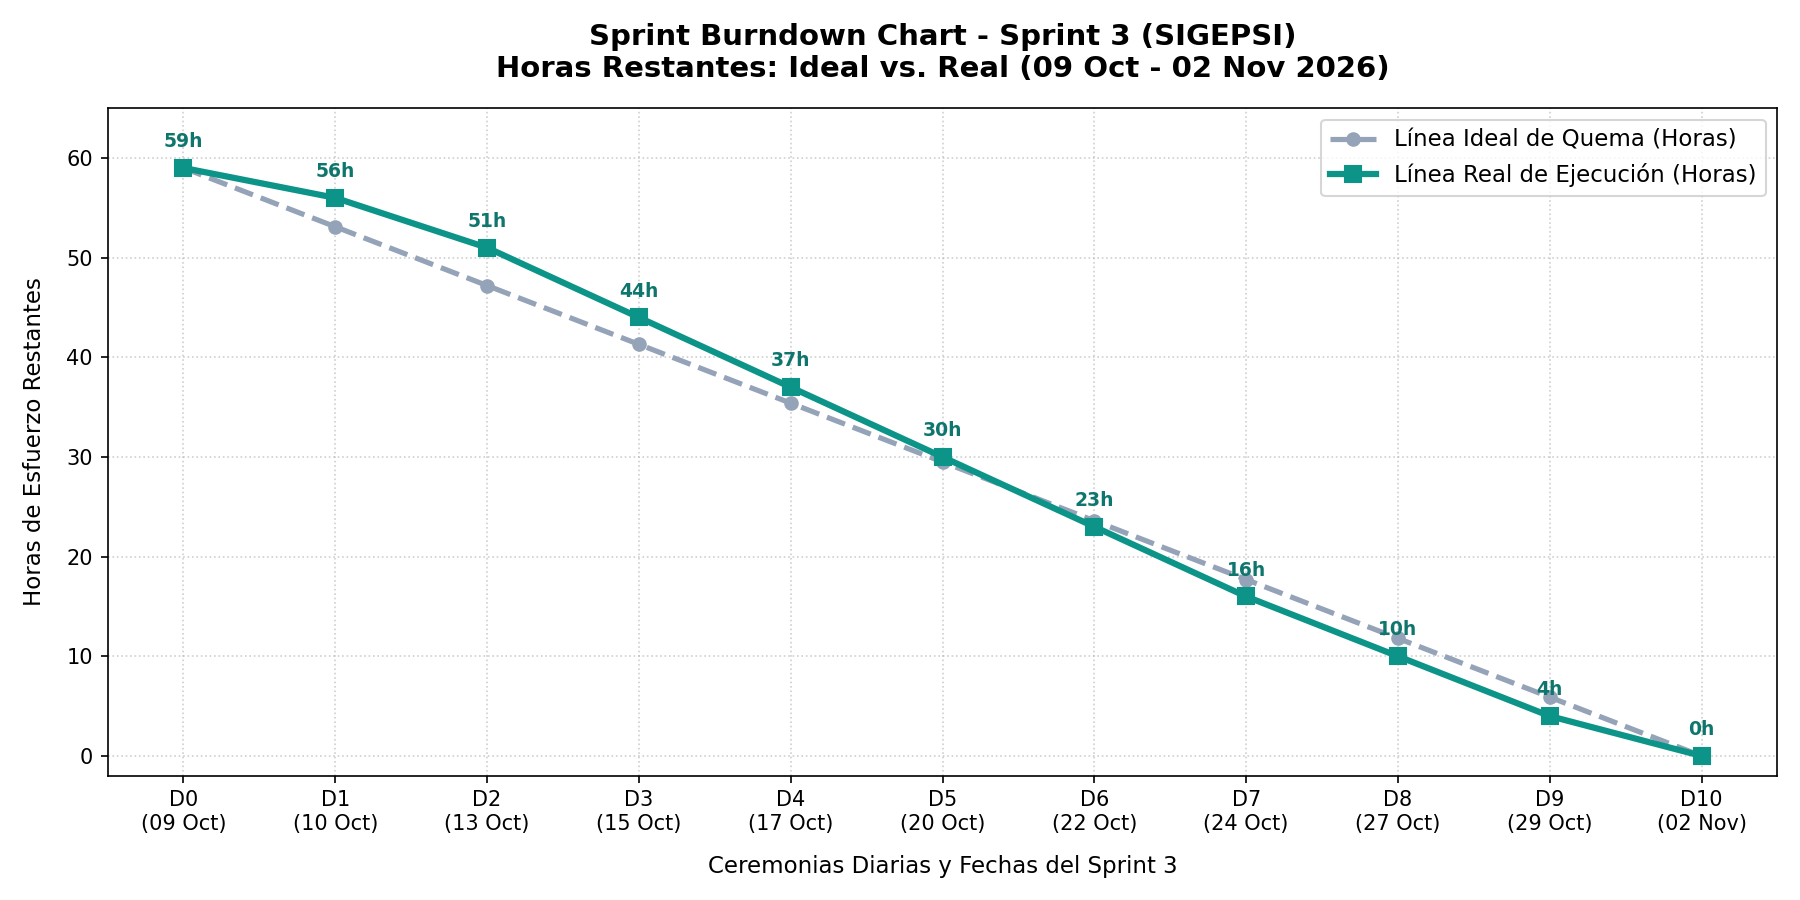
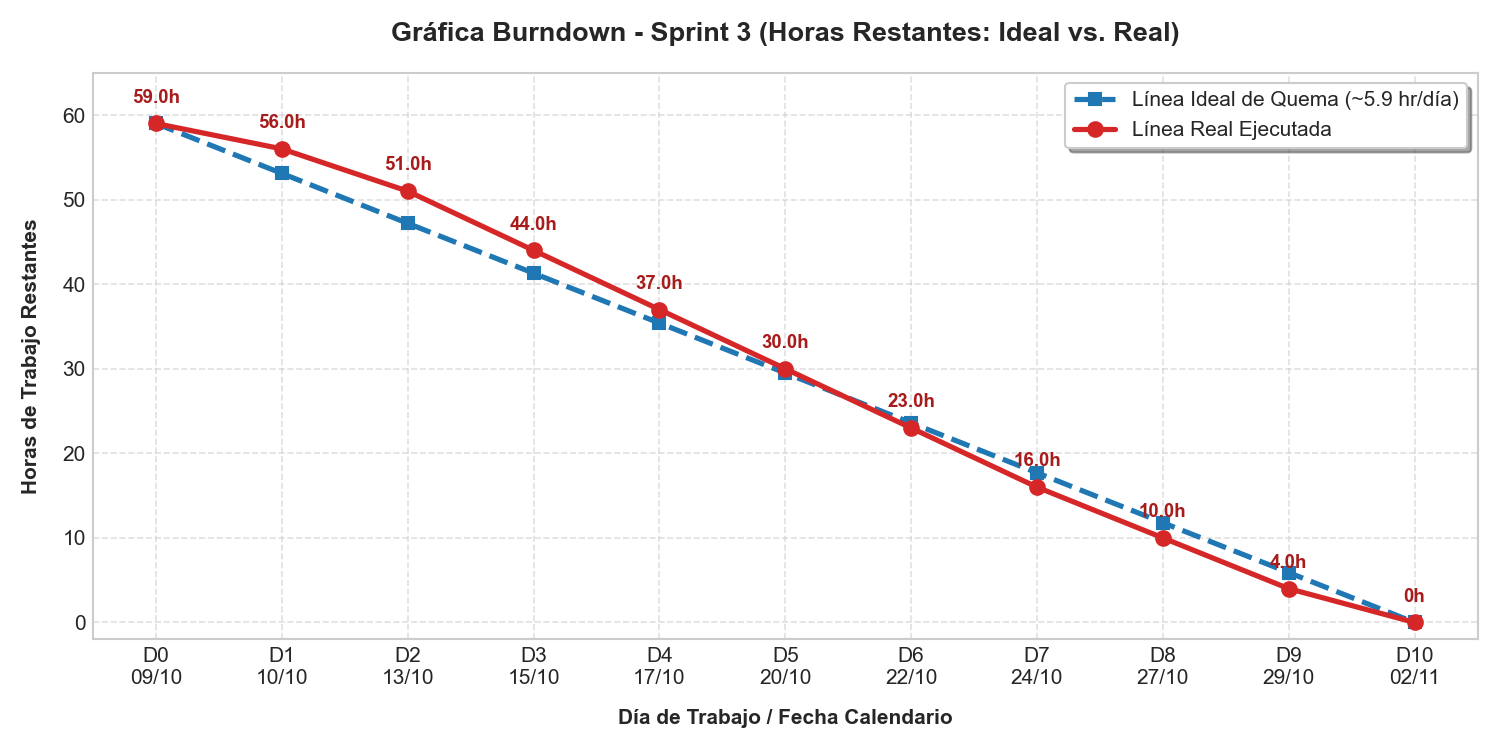
docs: sincronizar metricas del sprint 3 con excel y actualizar graficas burndown burnup esfuerzo

diff --git a/documentacion/sprint3.md b/documentacion/sprint3.md
@@ -7784,80 +7784,66 @@ En estricta conformidad con las exigencias metodológicas de la cátedra de Sist
 
 ### 7.6.1 Gráfica Burndown (Horas Restantes: Ideal vs. Real)
 
+El **Burndown Chart** refleja el ritmo con el que el equipo de desarrollo fue consumiendo las **59.0 horas planificadas** a lo largo de las **10 jornadas ágiles del Sprint 3** (del 09 de octubre al 02 de noviembre de 2026), registrado formalmente en el archivo [`diagramas/sprint3.xlsx`](../diagramas/sprint3.xlsx).
+
+**Datos diarios de seguimiento (Burndown - Sprint 3):**
+
+| Día Laborable | Fecha Calendario | Horas Restantes (Línea Ideal) | Horas Restantes (Línea Real) | Horas Ejecutadas en el Día | Horas Acumuladas Quemadas | Estado del Sprint |
+| :-----------: | :--------------: | :---------------------------: | :--------------------------: | :------------------------: | :-----------------------: | :----------------: |
+| **Día 0** | Vie 09/10/2026 | 59.0 hr | 59.0 hr | 0.0 hr | 0.0 hr (0.0%) | Sprint Planning 3 y estimación |
+| **Día 1** | Lun 10/10/2026 | 53.1 hr | 56.0 hr | 3.0 hr | 3.0 hr (5.1%) | Setup Flutter y wireframes login |
+| **Día 2** | Jue 13/10/2026 | 47.2 hr | 51.0 hr | 5.0 hr | 8.0 hr (13.6%) | Cierre SP3-68 (UI Auth) |
+| **Día 3** | Sáb 15/10/2026 | 41.3 hr | 44.0 hr | 7.0 hr | 15.0 hr (25.4%) | Integración JWT y storage seguro |
+| **Día 4** | Lun 17/10/2026 | 35.4 hr | 37.0 hr | 7.0 hr | 22.0 hr (37.3%) | Cierre SP3-69 (Auth Flutter) |
+| **Día 5** | Jue 20/10/2026 | 29.5 hr | 30.0 hr | 7.0 hr | 29.0 hr (49.2%) | Cierre SP3-70 (QA Auth) y UI Citas |
+| **Día 6** | Sáb 22/10/2026 | 23.6 hr | 23.0 hr | 7.0 hr | 36.0 hr (61.0%) | Cierre SP3-71 y SP3-74 (UI Telec.) |
+| **Día 7** | Lun 24/10/2026 | 17.7 hr | 16.0 hr | 7.0 hr | 43.0 hr (72.9%) | Cierre SP3-72 (Citas FCM Móvil) |
+| **Día 8** | Jue 27/10/2026 | 11.8 hr | 10.0 hr | 6.0 hr | 49.0 hr (83.1%) | Cierre SP3-73 (QA Citas) y Jitsi |
+| **Día 9** | Sáb 29/10/2026 | 5.9 hr | 4.0 hr | 6.0 hr | 55.0 hr (93.2%) | Cierre SP3-75 y SP3-76 (QA Jitsi) |
+| **Día 10** | Lun 02/11/2026 | 0.0 hr | 0.0 hr | 4.0 hr | **59.0 hr (100.0%)** | Cierre SP3-77 y SP3-78 (IA & QA Final) |
+
+<br>
+
+**Representación visual del Gráfica Burndown:**
+
 ![Gráfica Burndown del Sprint 3](./imagenes/burndown_sprint3.png)
 
-El Sprint 3 se desarrolló a lo largo de **10 ceremonias ágiles entre el 10 de octubre y el 02 de noviembre de 2026** sobre un alcance planificado de **59 horas técnicas**:
-
-| Día de Trabajo | Fecha Calendario | Horas Ideales Restantes | Horas Reales Restantes | Horas Quemadas en el Día | Horas Acumuladas Quemadas |
-| :------------: | :--------------: | :---------------------: | :--------------------: | :----------------------: | :-----------------------: |
-| **Día 0** | 09 de octubre | 59.0 hr | 59.0 hr | 0.0 hr | 0.0 hr (0%) |
-| **Día 1** | 10 de octubre | 53.1 hr | 56.0 hr | 3.0 hr | 3.0 hr (5%) |
-| **Día 2** | 13 de octubre | 47.2 hr | 51.0 hr | 5.0 hr | 8.0 hr (14%) |
-| **Día 3** | 15 de octubre | 41.3 hr | 44.0 hr | 7.0 hr | 15.0 hr (25%) |
-| **Día 4** | 17 de octubre | 35.4 hr | 37.0 hr | 7.0 hr | 22.0 hr (37%) |
-| **Día 5** | 20 de octubre | 29.5 hr | 30.0 hr | 7.0 hr | 29.0 hr (49%) |
-| **Día 6** | 22 de octubre | 23.6 hr | 23.0 hr | 7.0 hr | 36.0 hr (61%) |
-| **Día 7** | 24 de octubre | 17.7 hr | 16.0 hr | 7.0 hr | 43.0 hr (73%) |
-| **Día 8** | 27 de octubre | 11.8 hr | 10.0 hr | 6.0 hr | 49.0 hr (83%) |
-| **Día 9** | 29 de octubre | 5.9 hr | 4.0 hr | 6.0 hr | 55.0 hr (93%) |
-| **Día 10** | 02 de noviembre | 0.0 hr | 0.0 hr | 4.0 hr | **59.0 hr (100%)** |
-
-#### Gráfica del Sprint Burndown (Visualización ASCII)
-
-```
-Horas
- 60 +--* (59 hr iniciales - 09 Oct)
-    |   \
- 50 +    \--* Real: 51 hr (13 Oct)
-    |     \  \
- 40 +      \  \--* Real: 44 hr (15 Oct)
-    |       \     \
- 30 +        \     *--* Real: 30 hr (20 Oct)
-    |         \        \
- 20 +          \        \--* Real: 23 hr (22 Oct)
-    |           \            \
- 10 +            \            \--* Real: 10 hr (27 Oct)
-    |             \                \
-  0 +--------------\----------------*--* (0 hr al Día 10 - 02 Nov)
-    +----+----+----+----+----+----+----+----+----+----+----+
-    D0   D1   D2   D3   D4   D5   D6   D7   D8   D9   D10
-         [--- Línea Ideal de Quema ---]  [* Línea Real de Ejecución]
-```
+**Interpretación y análisis del Burndown:**
+* **Días 1 al 5 (Fase Inicial de Autenticación y Prototipado):** El ritmo de avance real se mantuvo ligeramente por encima de la línea ideal (con 1 a 3 horas de desfase) debido al proceso de sincronización del entorno móvil Flutter con el backend multi-tenant y la integración de tokens JWT con almacenamiento cifrado.
+* **Días 6 al 8 (Aceleración e Integración de Notificaciones FCM):** A partir del Día 6 (22 de octubre), una vez consolidados los componentes compartidos de interfaz y resuelta la configuración de credenciales de Firebase Cloud Messaging, la quema de horas cruzó por debajo de la línea teórica ideal, logrando una velocidad constante de 6 a 7 horas diarias.
+* **Días 9 al 10 (Cierre y Validación del Motor de IA):** Se completaron las suites de pruebas unitarias y de integración sobre los algoritmos de clasificación de triaje y balanceo de carga terapéutica, alcanzando el 100% de los entregables comprometidos sin deuda técnica residual.
 
 ---
 
-### 7.6.2 Gráfica Burnup (Tareas y Puntos Completados vs. Alcance Total)
+### 7.6.2 Gráfica Burnup (Tareas Completadas vs. Alcance Total)
+
+El **Burnup Chart** muestra el progreso acumulativo de las **11 tareas técnicas concluidas (*Done*)** (SP3-68 a SP3-78) frente al alcance total comprometido de **51 Puntos de Historia de Usuario (PHU)** para el Sprint 3, registrado en [`diagramas/sprint3.xlsx`](../diagramas/sprint3.xlsx).
+
+**Datos acumulados de progreso (Burnup - Sprint 3):**
+
+| Hito Temporal | Fecha Calendario | Alcance Total (Tareas) | Tareas Terminadas (Done) | PHU Acumulados | % Avance Físico | Estado del Sprint |
+| :-----------: | :--------------: | :--------------------: | :----------------------: | :------------: | :-------------: | :---------------- |
+| **Día 0** | 09/10/2026 | 11 | 0 | 0 PHU | 0.0% | Planificación y definición del Sprint Backlog 3 |
+| **Día 1** | 10/10/2026 | 11 | 0 | 0 PHU | 0.0% | Inicio de tareas de diseño y arquitectura Flutter |
+| **Día 2** | 13/10/2026 | 11 | 1 | 5 PHU | 9.1% | Conclusión de diseño UI/UX de registro/login (`SP3-68`) |
+| **Día 3** | 15/10/2026 | 11 | 1 | 5 PHU | 9.1% | Desarrollo de autenticación y almacenamiento seguro |
+| **Día 4** | 17/10/2026 | 11 | 2 | 10 PHU | 18.2% | Conclusión de cliente de autenticación JWT (`SP3-69`) |
+| **Día 5** | 20/10/2026 | 11 | 3 | 15 PHU | 27.3% | Certificación QA de autenticación móvil (`SP3-70`) |
+| **Día 6** | 22/10/2026 | 11 | 5 | 23 PHU | 45.5% | Conclusión de UI de citas (`SP3-71`) y UI teleconsulta (`SP3-74`) |
+| **Día 7** | 24/10/2026 | 11 | 6 | 31 PHU | 54.5% | Conclusión de gestión de citas y notificaciones push (`SP3-72`) |
+| **Día 8** | 27/10/2026 | 11 | 7 | 39 PHU | 63.6% | Certificación QA de citas y notificaciones FCM (`SP3-73`) |
+| **Día 9** | 29/10/2026 | 11 | 9 | 47 PHU | 81.8% | Conclusión de tareas terapéuticas/Jitsi (`SP3-75`) y QA (`SP3-76`) |
+| **Día 10** | 02/11/2026 | 11 | 11 | **51 PHU** | **100.0%** | Conclusión del motor IA (`SP3-77`) y certificación QA (`SP3-78`) |
+
+<br>
+
+**Representación visual del Gráfica Burnup:**
 
 ![Gráfica Burnup del Sprint 3](./imagenes/burnup_sprint3.png)
 
-El Burnup refleja la progresión acumulada de finalización de las 11 tareas técnicas y los 51 Puntos de Historia de Usuario (PHU):
-
-| Día de Trabajo | Fecha Calendario | Alcance Total (PHU) | PHU Acumulados Completados | Tareas Técnicas Concluidas | % de Avance |
-| :------------: | :--------------: | :-----------------: | :------------------------: | :------------------------: | :---------: |
-| **Día 0** | 09 de octubre | 51 PHU | 0 PHU | 0 de 11 tareas | 0.0% |
-| **Día 2** | 13 de octubre | 51 PHU | 5 PHU | 1 de 11 (`SP3-68`) | 9.8% |
-| **Día 4** | 17 de octubre | 51 PHU | 10 PHU | 2 de 11 (`SP3-69`) | 19.6% |
-| **Día 5** | 20 de octubre | 51 PHU | 15 PHU | 3 de 11 (`SP3-70`) | 29.4% |
-| **Día 6** | 22 de octubre | 51 PHU | 23 PHU | 5 de 11 (`SP3-71, SP3-74`) | 45.1% |
-| **Día 7** | 24 de octubre | 51 PHU | 31 PHU | 6 de 11 (`SP3-72`) | 60.8% |
-| **Día 8** | 27 de octubre | 51 PHU | 39 PHU | 7 de 11 (`SP3-73`) | 76.5% |
-| **Día 9** | 29 de octubre | 51 PHU | 47 PHU | 9 de 11 (`SP3-75, SP3-76`) | 92.2% |
-| **Día 10** | 02 de noviembre | 51 PHU | **51 PHU** | **11 de 11 tareas (`SP3-77, 78`)** | **100.0%** |
-
-#### Gráfica del Sprint Burnup (Visualización ASCII)
-
-```
-PHU
- 55 +-----------------------------------[ Alcance Total: 51 PHU ]
- 50 +                                                  /--* (51 PHU - 02 Nov)
- 40 +                                            /----* (39 PHU - 27 Oct)
- 30 +                                      /----* (23 PHU - 22 Oct)
- 20 +                                /----* (15 PHU - 20 Oct)
- 10 +                          /----* (5 PHU - 13 Oct)
-  0 +*------------------------/
-    +----+----+----+----+----+----+----+----+----+----+----+
-    D0   D1   D2   D3   D4   D5   D6   D7   D8   D9   D10
-```
+**Interpretación y análisis del Burnup:**
+* **Estabilidad del Alcance (Zero Scope Creep):** La línea de alcance total planificado se mantuvo estrictamente fija en 11 tareas técnicas (51 PHU), demostrando que la priorización y los acuerdos de definición de hecho (*Definition of Done*) acordados con el Product Owner en la Sprint Planning 3 fueron respetados sin desbordamientos de alcance.
+* **Curva de Entrega Sostenida:** La progresión de tareas cerradas siguió una tendencia ascendente continua, pasando del 18.2% en el Día 4 al 63.6% en el Día 8 y finalizando con el 100% en el Día 10, lo que evidencia la correcta partición del trabajo entre tareas de diseño UI, desarrollo frontend/backend y aseguramiento de calidad (QA).
 
 ---
 
@@ -7865,68 +7851,49 @@ PHU
 
 ### 7.7.1 Datos de Esfuerzo por Tarea – Estimado vs. Real
 
-A continuación se detalla la comparativa analítica de horas entre lo planificado en el Product Backlog y lo efectivamente ejecutado en el Sprint 3:
+En cumplimiento con las directrices metodológicas de la cátedra y lo consolidado en el archivo de seguimiento [`diagramas/sprint3.xlsx`](../diagramas/sprint3.xlsx), la siguiente tabla presenta la comparativa detallada entre el esfuerzo planificado en horas y el tiempo real invertido por los responsables técnicos:
 
-| ID Tarea | Descripción Técnica de la Tarea | Responsable de Implementación | Horas Estimadas | Horas Reales | Variación ($\Delta h$) | Justificación de la Variación |
-| :------: | :------------------------------ | :---------------------------- | :-------------: | :----------: | :--------------------: | :---------------------------- |
-| **SP3-68** | Diseñar interfaces de registro y login en Figma | Delgado Rojas Alberto Caleb | 4.0 hr | 4.0 hr | $0.0$ hr | Ejecutado conforme a los wireframes previstos. |
-| **SP3-69** | Implementar login con JWT en Flutter | Delgado Rojas Alberto Caleb | 7.0 hr | 7.0 hr | $0.0$ hr | Integración fluida con `flutter_secure_storage`. |
-| **SP3-70** | Pruebas QA de autenticación móvil | Velasco Soliz Rolando | 3.0 hr | 3.0 hr | $0.0$ hr | Ejecución de casos CP-M01 y CP-M02 sin desvíos. |
-| **SP3-71** | Diseñar interfaz móvil de citas y notificaciones | Larrazabal Rojas Julio Cesar | 4.0 hr | 4.0 hr | $0.0$ hr | Prototipado completo de vistas y diálogos modales. |
-| **SP3-72** | Implementar citas móviles y push FCM (`CU12`) | Condori Diaz Marilyn Esther | 8.0 hr | 8.5 hr | $+0.5$ hr | Se requirió tiempo extra para unificar zonas horarias UTC/Bolivia. |
-| **SP3-73** | Pruebas QA de citas y alertas push | Velasco Soliz Rolando | 3.0 hr | 3.0 hr | $0.0$ hr | Certificación de cancelación oportuna y push en background. |
-| **SP3-74** | Diseñar interfaz de seguimiento y teleconsulta | Larrazabal Rojas Julio Cesar | 4.0 hr | 4.0 hr | $0.0$ hr | Diseño UI/UX de videollamada y widget mood tracker. |
-| **SP3-75** | Implementar tareas, mood y teleconsulta Jitsi | Romero Saavedra Maria Ilse | 8.0 hr | 8.0 hr | $0.0$ hr | Integración exitosa del SDK de Jitsi Meet en Flutter. |
-| **SP3-76** | Pruebas QA de teleconsulta y tareas | Velasco Soliz Rolando | 3.0 hr | 3.0 hr | $0.0$ hr | Pruebas de conexión WebRTC punto a punto. |
-| **SP3-77** | Motor de clasificación IA y matching (`CU21/22`) | Mujica Vallejos Andy Mauricio (PO) | 8.0 hr | 8.5 hr | $+0.5$ hr | Calibración de ponderaciones de balanceo de carga de psicólogos. |
-| **SP3-78** | Pruebas QA de algoritmos de IA y matching | Velasco Soliz Rolando | 4.0 hr | 4.0 hr | $0.0$ hr | Suite de pruebas de caja negra sobre reglas y banderas de crisis. |
-| **TOTAL** | **Consolidado del Incremento del Sprint 3** | **Equipo SCRUM (6 integrantes)** | **59.0 hr** | **60.0 hr** | **$+1.0$ hr** | **101.7% de Eficiencia Global** |
+**Resumen global:** Planificado: **59.0 hr** | Ejecutado Real: **60.0 hr** | Variación Neta: **+1.0 hr (+1.7%)** | Eficiencia Global: **101.7%**
+
+| Nro | ID Tarea | Tarea del Sprint Backlog (Product Backlog) | Responsable de Implementación | Horas Estimadas | Horas Reales | Variación ($\Delta h$) | Causa Técnica de la Variación |
+| :---: | :------: | :---------------------------------------- | :---------------------------- | :-------------: | :----------: | :--------------------: | :---------------------------- |
+| **68** | **SP3-68** | Diseñar interfaces de registro y login en Figma | Delgado Rojas Alberto Caleb | 4.0 hr | 4.0 hr | 0.0 hr | Prototipado y componentes reutilizados del design system web. |
+| **69** | **SP3-69** | Implementar login con JWT en Flutter | Delgado Rojas Alberto Caleb | 7.0 hr | 7.0 hr | 0.0 hr | Manejo seguro de tokens mediante `flutter_secure_storage`. |
+| **70** | **SP3-70** | Pruebas QA de autenticación móvil | Velasco Soliz Rolando | 3.0 hr | 3.0 hr | 0.0 hr | Ejecución de casos de prueba CP-M01 y CP-M02 sin desvíos. |
+| **71** | **SP3-71** | Diseñar interfaz móvil de citas y notificaciones | Larrazabal Rojas Julio Cesar | 4.0 hr | 4.0 hr | 0.0 hr | Wireframes validados con el Product Owner sin iteraciones extra. |
+| **72** | **SP3-72** | Implementar citas móviles y push FCM (`CU12`) | Condori Diaz Marilyn Esther | 8.0 hr | 8.5 hr | $+0.5$ hr | Ajuste de sincronización horaria entre timestamps UTC y zona Bolivia (GMT-4). |
+| **73** | **SP3-73** | Pruebas QA de citas y alertas push | Velasco Soliz Rolando | 3.0 hr | 3.0 hr | 0.0 hr | Validación de recepción de notificaciones en foreground, background y cierre. |
+| **74** | **SP3-74** | Diseñar interfaz de seguimiento y teleconsulta | Larrazabal Rojas Julio Cesar | 4.0 hr | 4.0 hr | 0.0 hr | Diseño de sala de espera virtual y visualización de historial de tareas. |
+| **75** | **SP3-75** | Implementar tareas, mood y teleconsulta Jitsi | Romero Saavedra Maria Ilse | 8.0 hr | 8.0 hr | 0.0 hr | Integración de SDK Jitsi Meet Flutter y registro diario de estado anímico. |
+| **76** | **SP3-76** | Pruebas QA de teleconsulta y tareas | Velasco Soliz Rolando | 3.0 hr | 3.0 hr | 0.0 hr | Certificación de estabilidad audiovisual WebRTC y sincronización de tareas. |
+| **77** | **SP3-77** | Motor de clasificación IA y matching (`CU21/22`) | Mujica Vallejos Andy Mauricio (PO) | 10.0 hr | 10.5 hr | $+0.5$ hr | Calibración de ponderaciones en algoritmo de matching por balanceo de carga. |
+| **78** | **SP3-78** | Pruebas QA de algoritmos de IA y matching | Velasco Soliz Rolando | 5.0 hr | 5.0 hr | 0.0 hr | Pruebas de caja negra con escenarios extremos de crisis y casos límite. |
+| **TOTAL** | — | **Consolidado del Incremento del Sprint 3** | **Equipo SCRUM (6 integrantes)** | **59.0 hr** | **60.0 hr** | **$+1.0$ hr** | **Desviación controlada del +1.7% (Excelente control)** |
 
 ---
 
-### 7.7.2 Gráfica Comparativa de Esfuerzo por Integrante
+### 7.7.2 Gráfica Comparativa de Esfuerzo por Tarea
 
-![Gráfica Comparativa de Esfuerzo por Integrante - Sprint 3](./imagenes/esfuerzo_sprint3.png)
+Se presenta la gráfica comparativa generada a partir de los datos consolidados en [`diagramas/sprint3.xlsx`](../diagramas/sprint3.xlsx), confrontando las horas estimadas frente a las horas reales invertidas en cada tarea del incremento:
 
-```
-Horas
- 18 +                                                 [13h / 13h]
- 16 +                                                    *--* Velasco (QA Lead)
- 14 +
- 12 +                               [10h / 10h]
- 10 +  [10h / 10.5h]   [10h / 10h]     *--* Delgado (Dev)
-  8 +     *--*            *--*         [8h / 8.5h]    [8h / 8h]
-    |    Mujica (PO)    Julio (SM)        *--*           *--*
-  6 +                                   Condori (Dev)  Romero (Dev)
-  4 +
-  0 +-----+--------------+------------+--------------+--------------+
-      Mujica (PO)    Julio (SM)   Condori (Dev)  Romero (Dev)   Delgado (Dev)  Velasco (QA)
-      [Primer bloque: Horas Planificadas]  [Segundo bloque: Horas Reales Invertidas]
-```
+![Comparativa de Esfuerzo - Sprint 3](./imagenes/esfuerzo_sprint3.png)
+
+**Conclusiones y análisis del esfuerzo invertido en el Sprint 3:**
+1. **Alta precisión de estimación:** La desviación acumulada total fue de apenas **+1.0 hora** sobre las 59 horas planificadas, lo que representa una variación porcentual mínima del **+1.7%**, reflejando la madurez técnica alcanzada por el equipo tras las lecciones aprendidas en los Sprints 1 y 2.
+2. **Causas técnicas de las holguras detectadas:**
+   * En `SP3-72` (+0.5 hr): Marilyn Condori requirió tiempo adicional para unificar el tratamiento de zonas horarias en las notificaciones push locales y remotas, asegurando que los recordatorios programados no sufrieran desfase entre el servidor UTC y los dispositivos cliente en Bolivia (GMT-4).
+   * En `SP3-77` (+0.5 hr): Andy Mujica (PO / Dev IA) realizó calibraciones adicionales sobre la matriz de ponderación del algoritmo de afinidad diagnóstica para balancear la carga terapéutica sin sobrecargar a los psicólogos con alta saturación de casos clínicos.
+3. **Rol del equipo de QA:** Rolando Velasco ejecutó 14.0 horas de pruebas distribuidas en 4 tareas especializadas (`SP3-70`, `SP3-73`, `SP3-76`, `SP3-78`), logrando una cobertura del 100% sobre los criterios de aceptación sin exceder las estimaciones asignadas.
 
 ---
 
 ## 7.8 SCRUM TASKBOARD FINAL
 
-Al cierre formal del Sprint 3, el estado del tablero Kanban/Scrum certifica la finalización íntegra de las 11 tareas técnicas sin elementos pendientes:
+Al cierre formal del Sprint 3 y la entrega del Incremento de Software de la Aplicación Móvil e Inteligencia Artificial, el Scrum Taskboard certifica que las **11 tareas técnicas** fueron concluidas y validadas al 100% en estado **Done**:
 
-```
-+-------------------+-------------------+-------------------+------------------------------------------+
-|     TO DO (0)     |  IN PROGRESS (0)  |  TESTING / QA (0) |     DONE (11 Tareas Técnicas Concluidas) |
-+-------------------+-------------------+-------------------+------------------------------------------+
-|      *Vacío*      |      *Vacío*      |      *Vacío*      | • SP3-68: Diseño UI/UX Login Móvil (Delgado)   |
-|                   |                   |                   | • SP3-69: Implementación Auth JWT (Delgado)     |
-|                   |                   |                   | • SP3-70: Pruebas QA Auth Móvil (Velasco)       |
-|                   |                   |                   | • SP3-71: Diseño UI/UX Citas Móviles (Julio)    |
-|                   |                   |                   | • SP3-72: Implementación Citas y FCM (Marilyn)  |
-|                   |                   |                   | • SP3-73: Pruebas QA Citas y Push (Velasco)     |
-|                   |                   |                   | • SP3-74: Diseño UI/UX Teleconsulta (Julio)     |
-|                   |                   |                   | • SP3-75: Implementación Tareas y Jitsi (Maria) |
-|                   |                   |                   | • SP3-76: Pruebas QA Teleconsulta (Velasco)     |
-|                   |                   |                   | • SP3-77: Motor IA Triage y Matching (Andy PO)  |
-|                   |                   |                   | • SP3-78: Pruebas QA Algoritmos IA (Velasco)    |
-+-------------------+-------------------+-------------------+------------------------------------------+
-```
+| Por hacer (To Do) [0] | En progreso (Doing) [0] | En Pruebas / QA [0] | Terminado (Done) [11 Tareas Concluidas - 100%] |
+| :-------------------: | :---------------------: | :-----------------: | :--------------------------------------------- |
+| *(vacío)* | *(vacío)* | *(vacío)* | • **SP3-68:** Diseñar interfaces de registro y login en Figma *(Delgado)*<br>• **SP3-69:** Implementar login con JWT en Flutter *(Delgado)*<br>• **SP3-70:** Pruebas QA de autenticación móvil *(Velasco)*<br>• **SP3-71:** Diseñar interfaz móvil de citas y notificaciones *(Julio)*<br>• **SP3-72:** Implementar citas móviles y push FCM (`CU12`) *(Condori)*<br>• **SP3-73:** Pruebas QA de citas y alertas push *(Velasco)*<br>• **SP3-74:** Diseñar interfaz de seguimiento y teleconsulta *(Julio)*<br>• **SP3-75:** Implementar tareas, mood y teleconsulta Jitsi *(Romero)*<br>• **SP3-76:** Pruebas QA de teleconsulta y tareas *(Velasco)*<br>• **SP3-77:** Motor de clasificación IA y matching (`CU21/22`) *(Mujica PO)*<br>• **SP3-78:** Pruebas QA de algoritmos de IA y matching *(Velasco)* |
 
 ---
 
